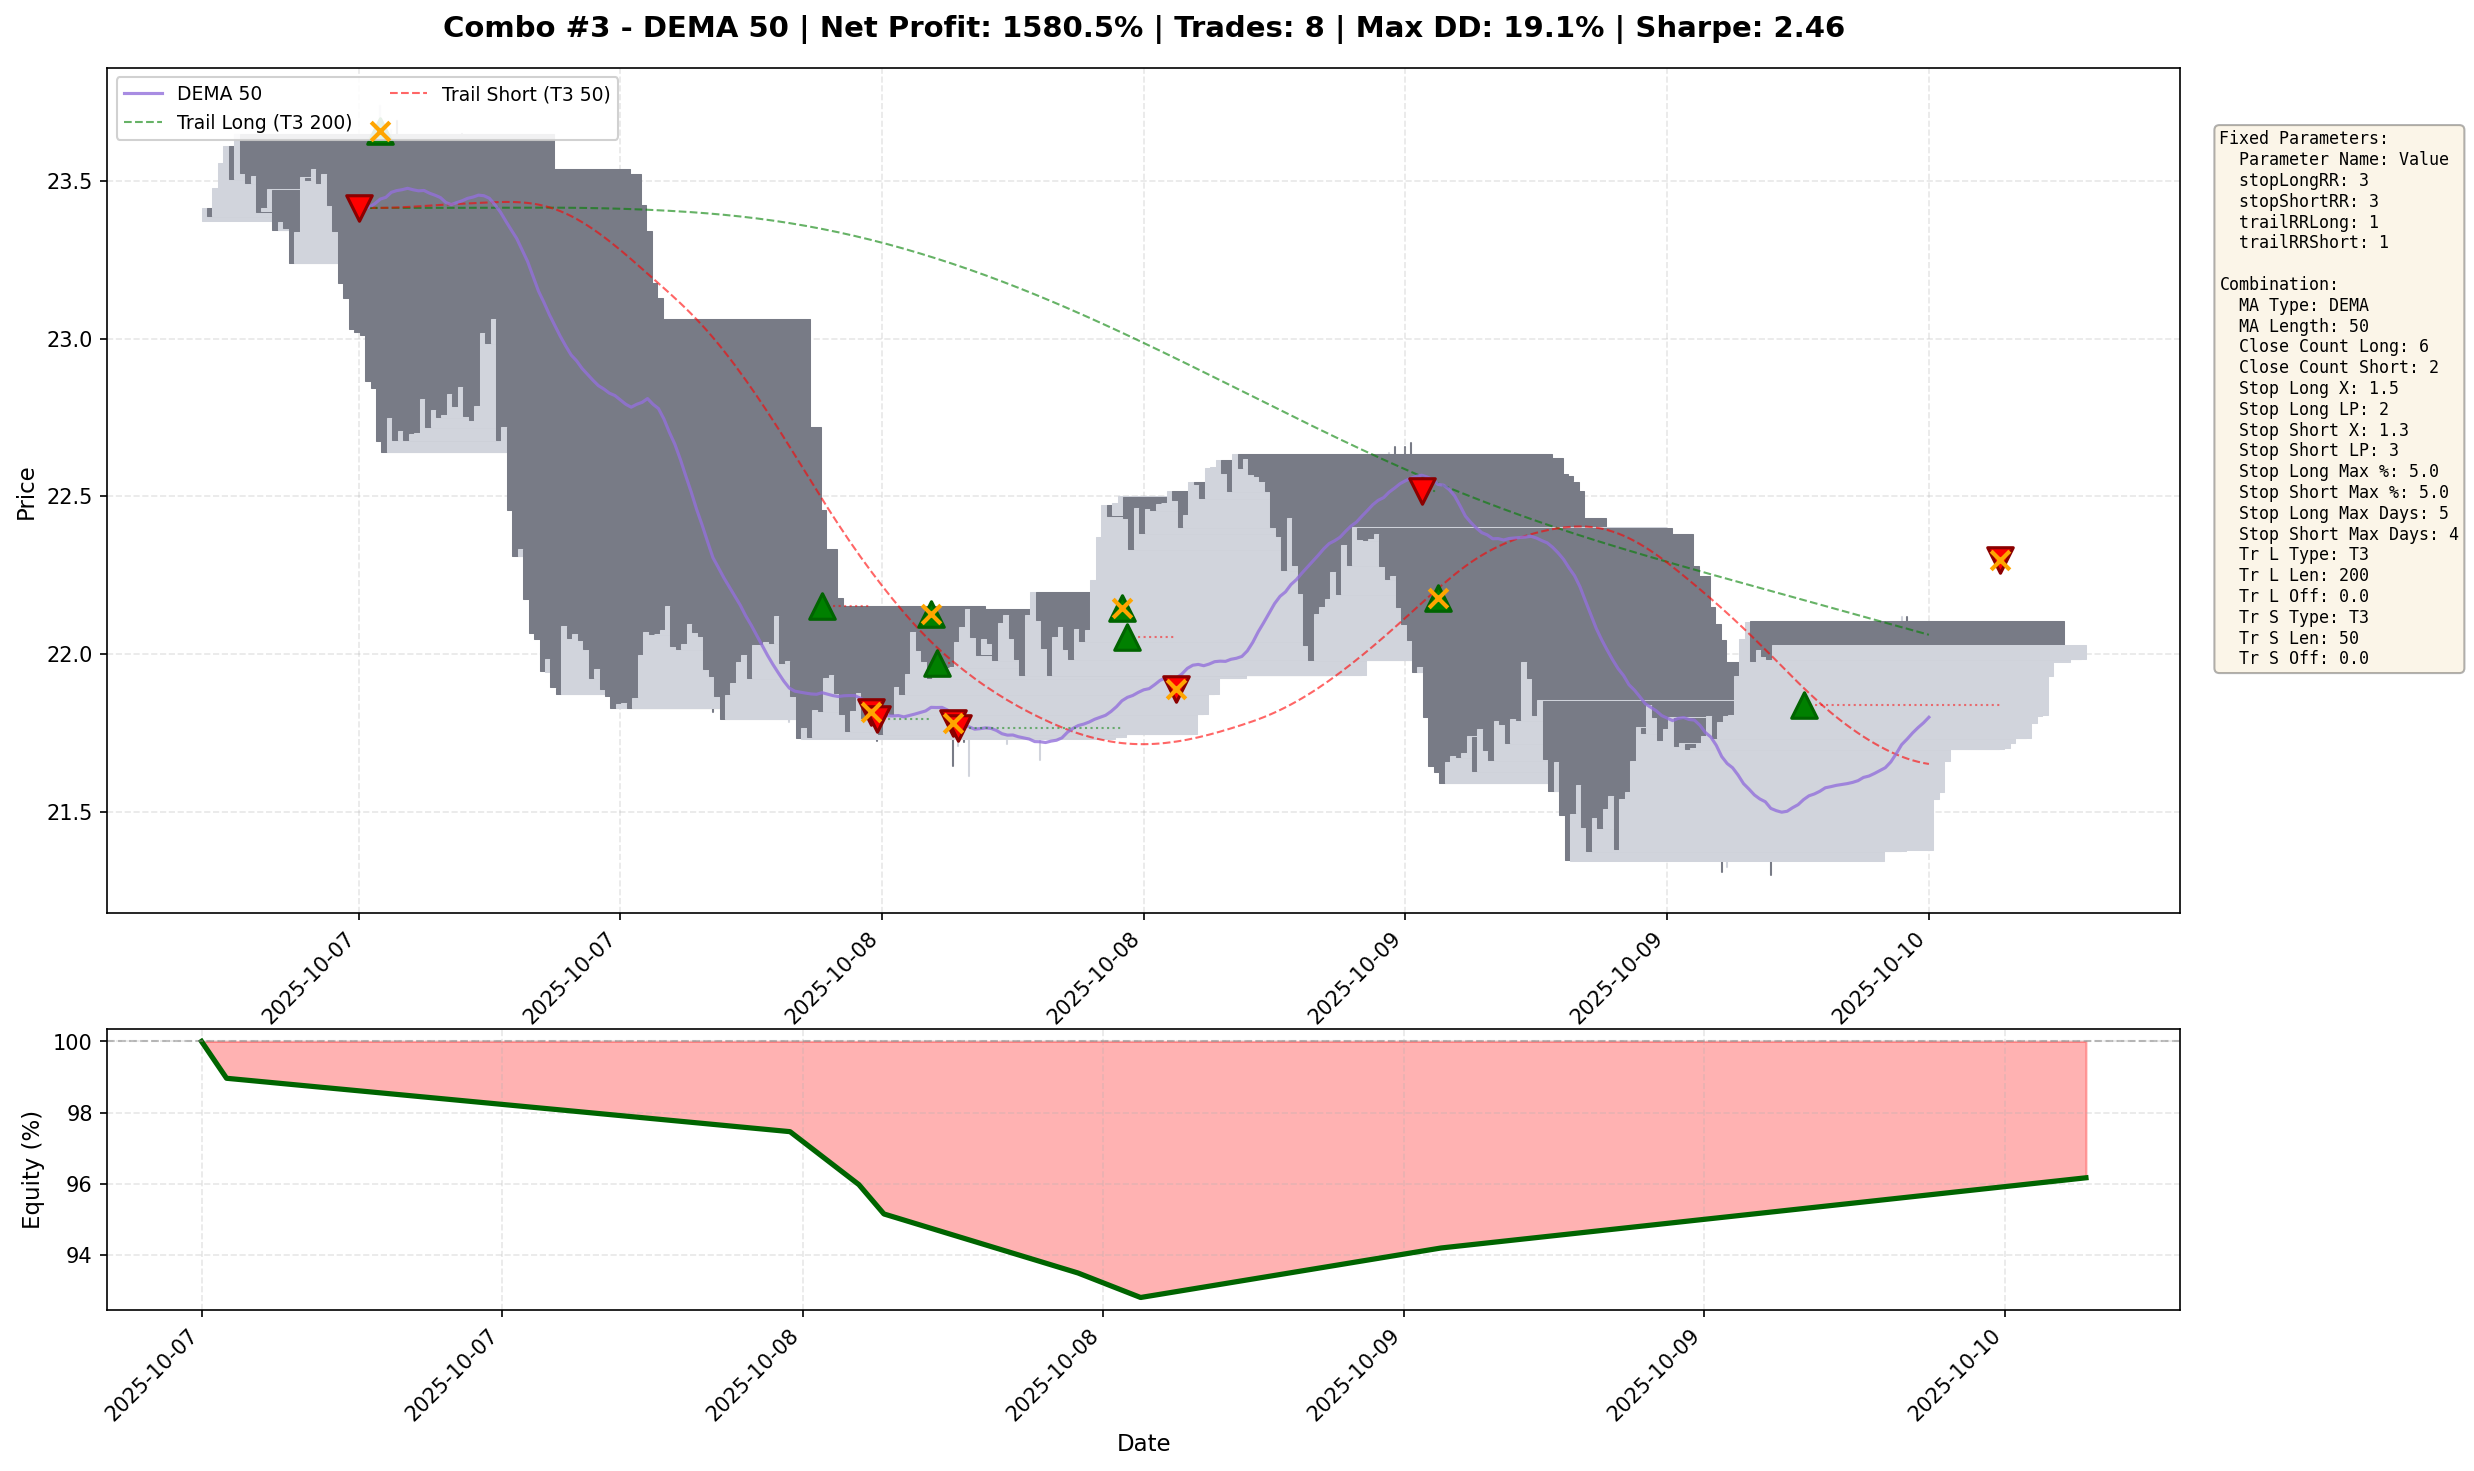
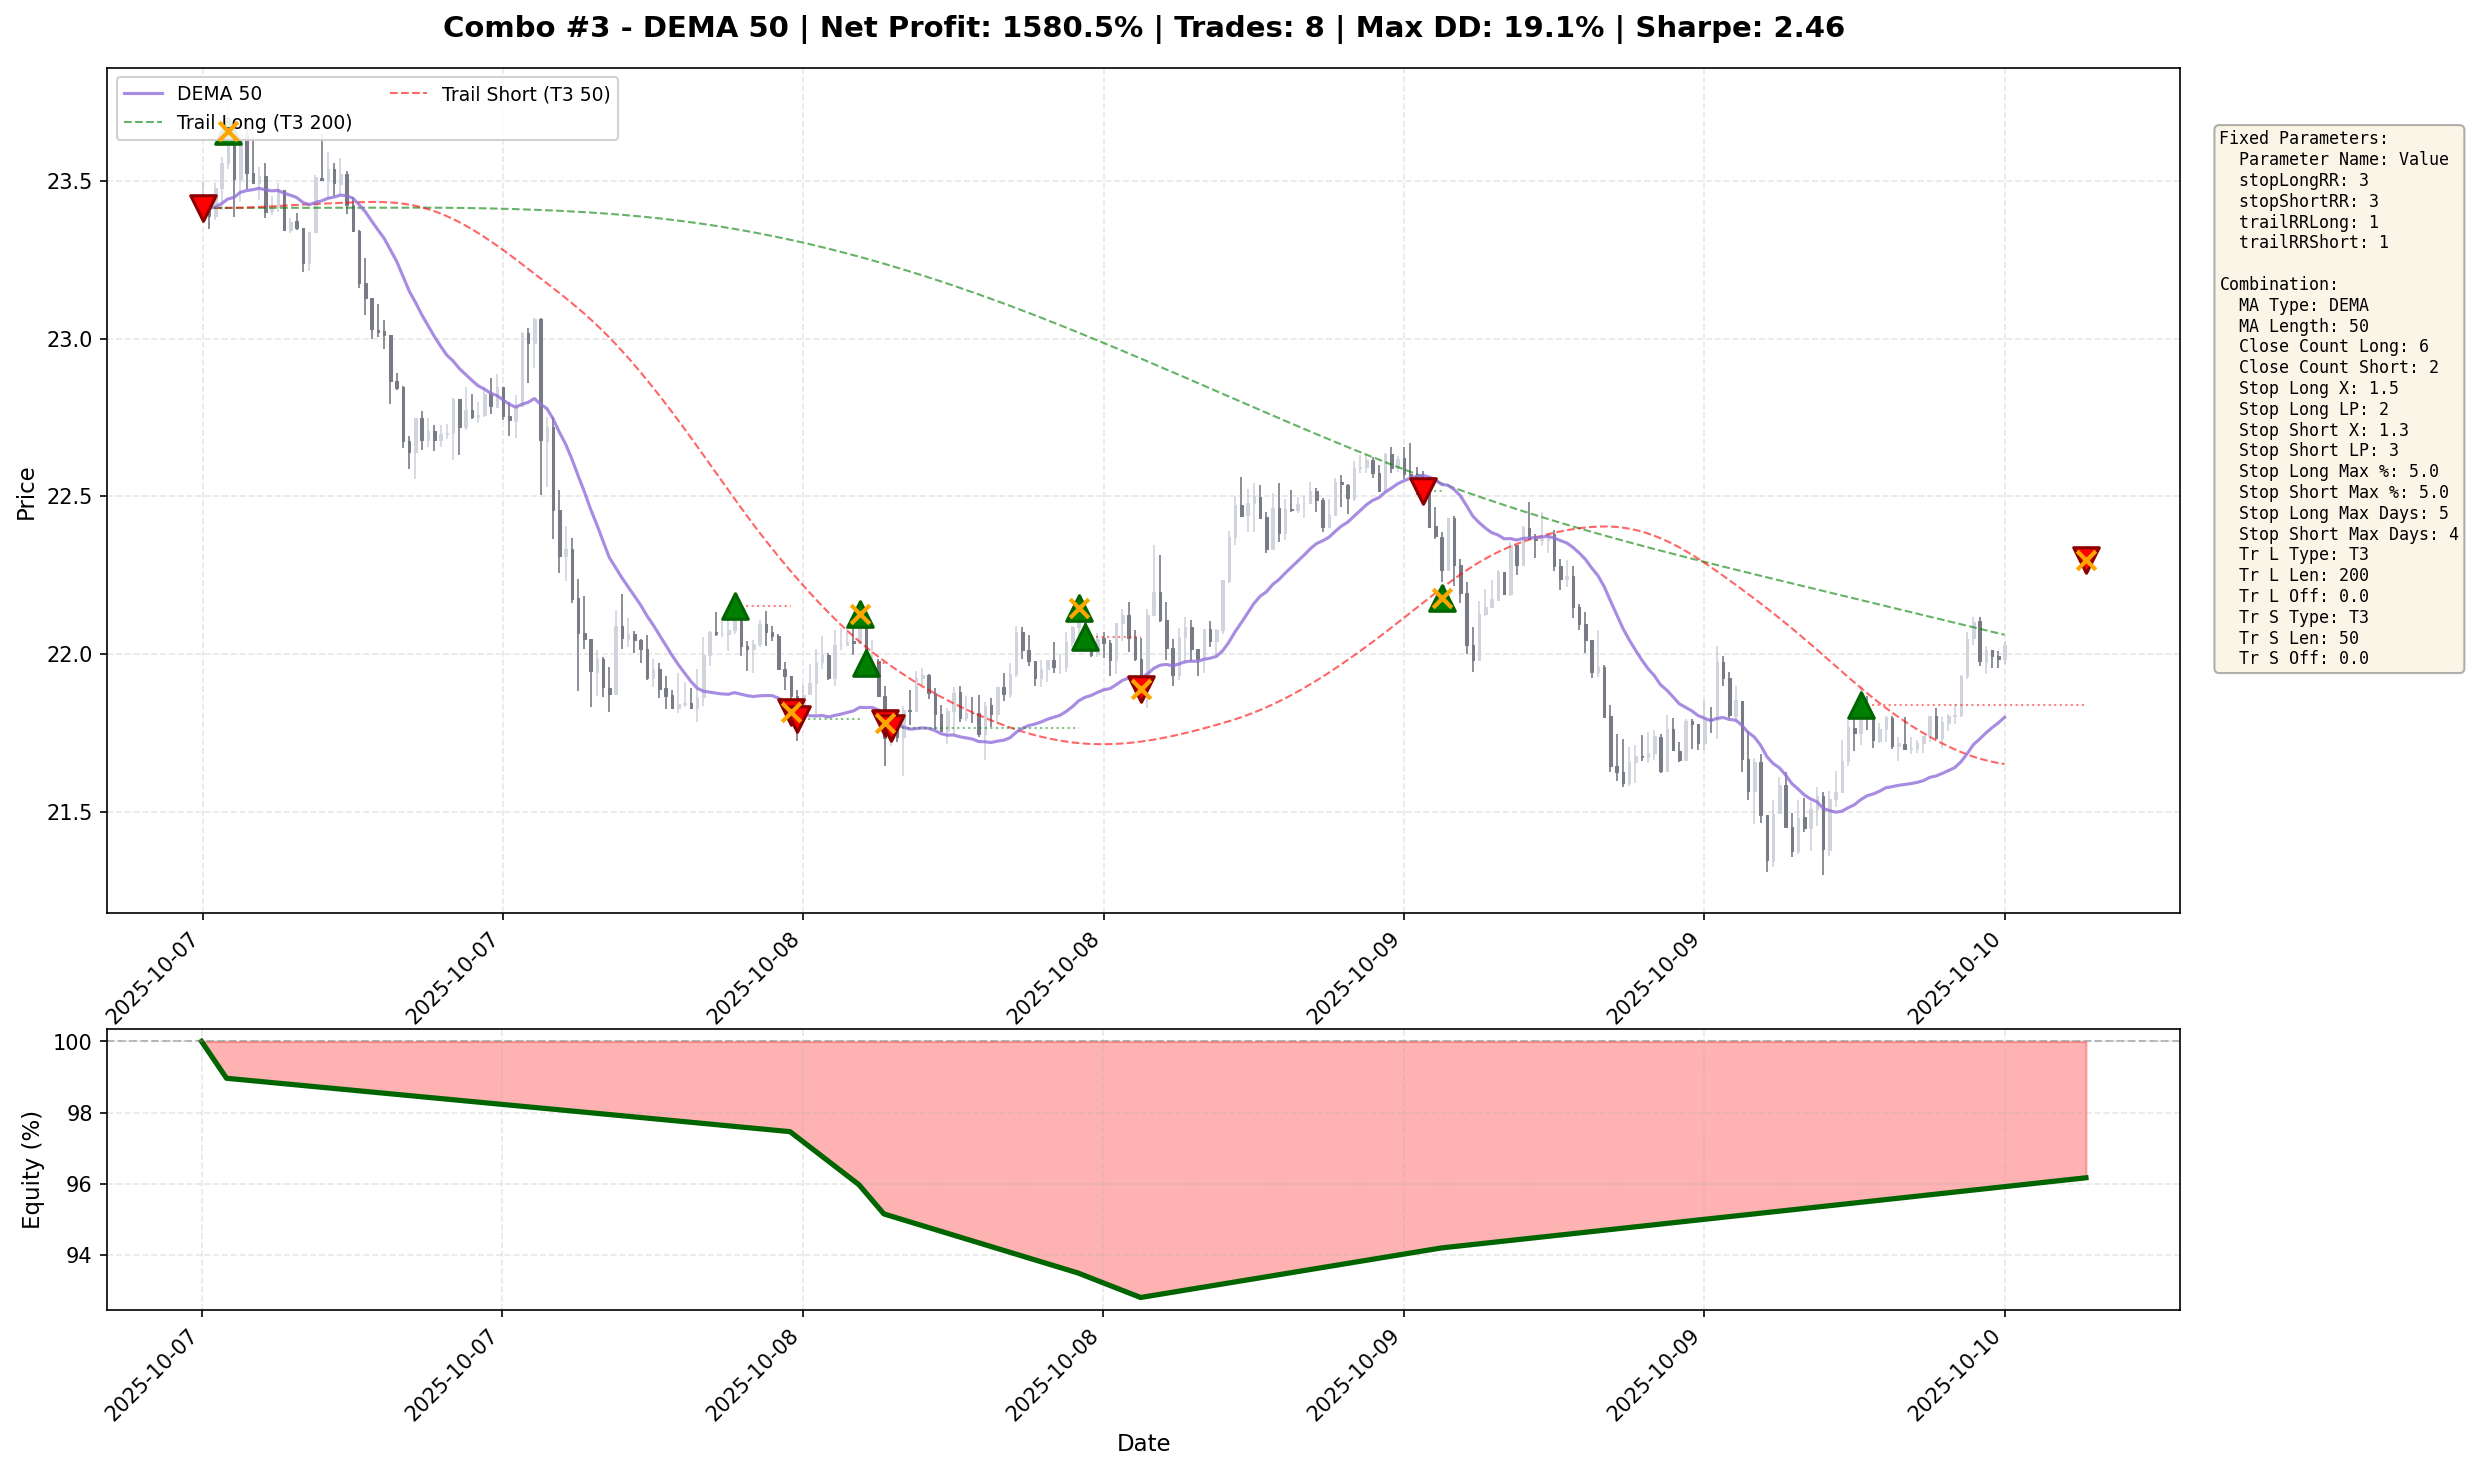
Make candlesticks thin with auto-calculated width
Fixed candlestick rendering to match TradingView style:
- Auto-calculate candle width based on time interval (40% of interval)
- Previous width=0.6 days was ~58 candles wide for 15m timeframe
- Reduced wick linewidth from 1.0 to 0.8 for cleaner appearance
- Changed capstyle to 'butt' for sharper wick rendering

Now candlesticks appear as thin bars with visible wicks instead
of wide blocks, matching the reference chart style.

diff --git a/visualize_cli.py b/visualize_cli.py
@@ -462,19 +462,26 @@ class TradeVisualizer:
         else:
             return data['close'].rolling(window=length).mean()
     
-    def _plot_candlesticks(self, ax, data, width=0.6, colorup='#26a69a', colordown='#ef5350'):
+    def _plot_candlesticks(self, ax, data, width=None, colorup='#26a69a', colordown='#ef5350'):
         """
         Рисует японские свечи на графике
 
         Args:
             ax: matplotlib axis
             data: DataFrame с колонками open, high, low, close и DatetimeIndex
-            width: ширина свечи в днях
+            width: ширина свечи в днях (если None, вычисляется автоматически)
             colorup: цвет растущей свечи (зеленый)
             colordown: цвет падающей свечи (красный)
         """
         # Конвертируем datetime в числовой формат для matplotlib
         dates = mdates.date2num(data.index)
+
+        # Автоматически вычисляем ширину свечи на основе временного интервала
+        if width is None and len(dates) > 1:
+            # Берем среднее расстояние между свечами
+            time_interval = np.median(np.diff(dates))
+            # Ширина свечи = 40% от интервала (чтобы оставить пространство между свечами)
+            width = time_interval * 0.4
 
         for i, (idx, row) in enumerate(data.iterrows()):
             date = dates[i]
@@ -486,9 +493,9 @@ class TradeVisualizer:
             # Определяем цвет свечи
             color = colorup if close_price >= open_price else colordown
 
-            # Рисуем фитиль (high-low линия)
+            # Рисуем фитиль (high-low линия) - более тонкий, как в TradingView
             ax.plot([date, date], [low_price, high_price],
-                   color=color, linewidth=1, solid_capstyle='round', zorder=1)
+                   color=color, linewidth=0.8, solid_capstyle='butt', zorder=1)
 
             # Рисуем тело свечи
             height = abs(close_price - open_price)
